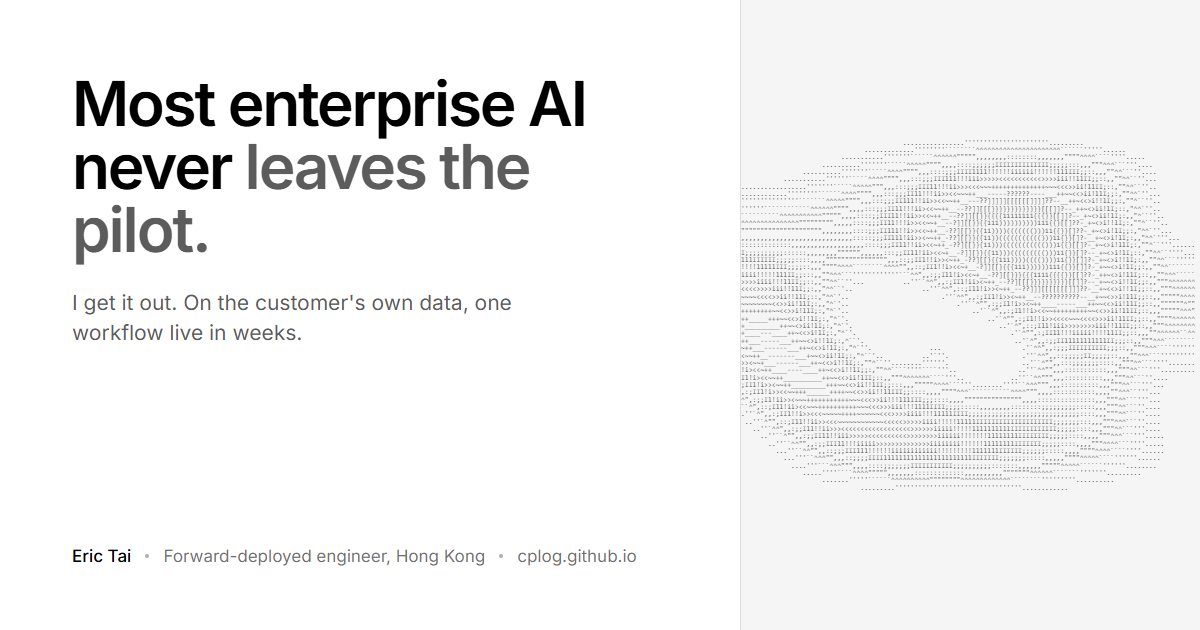
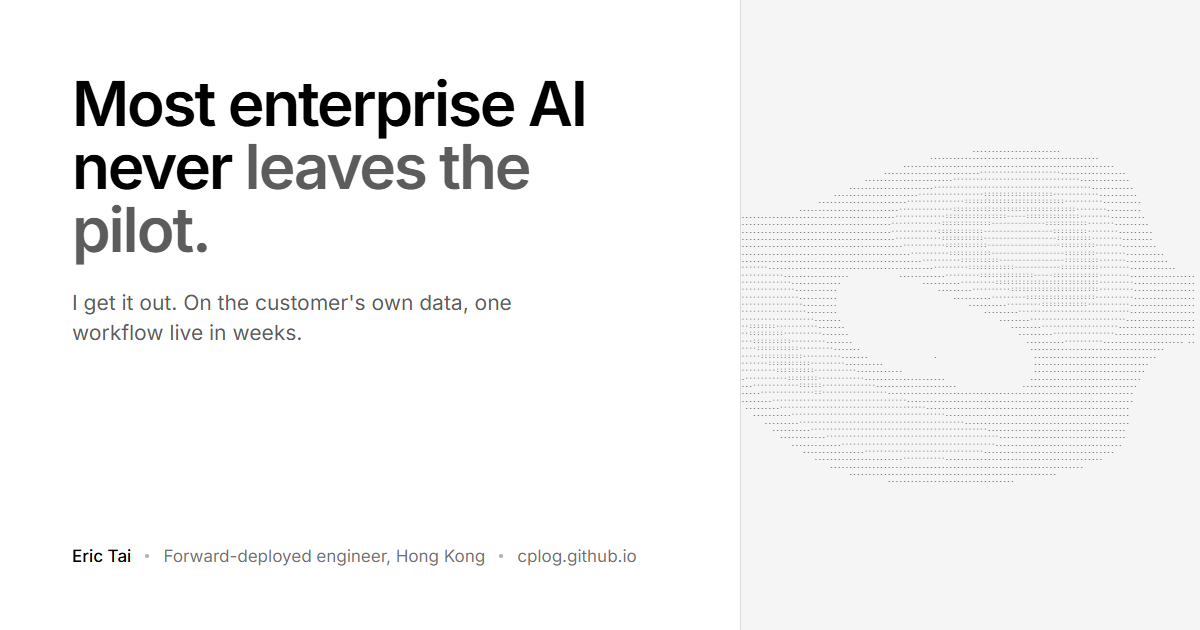
Draw the ASCII scenes instead of dithering them
The 70-step ramp is built for photographic dithering and its middle is all
letterforms. Sparse line art put through it came back at indices 20-45 --
literally `{Z$Z{` -- so the panel read as corrupted text rather than as a
drawing. Structural scenes now use an eight-step ramp with no letters in it.

The graph draws with line characters chosen from each segment's real visual
slope, so a run of them reads as one stroke. Weak edges thin to dots rather
than to a fainter glyph, which keeps every mark at one ink weight and is the
honest ASCII idiom for 'less certain'.

Node homes come from a jittered grid. Two draws of the sine hash turned out
correlated enough to put every node on one diagonal with dead corners around
it. Also gave the grid a clear band so nothing renders under the buttons.

Changed region(s): [[0.6167, 0.2111, 1.0, 0.7841]]

diff --git a/scenes.js b/scenes.js
@@ -1,5 +1,7 @@
 // Three scenes. Each one has a reason to exist rather than being an effect.
 
+import { RAMP_SOFT } from "./engine.js";
+
 const clamp = (v) => (v < 0 ? 0 : v > 1 ? 1 : v);
 
 /* 1 - FIELD ---------------------------------------------------------------
@@ -9,6 +11,7 @@ const clamp = (v) => (v < 0 ? 0 : v > 1 ? 1 : v);
 export const field = {
   id: "field",
   name: "Interference",
+  ramp: RAMP_SOFT,
   note: "Three sine layers over a warped domain. The warp is why it never quite repeats.",
   still: 3.1,
   field(nx, ny, t) {
@@ -25,7 +28,7 @@ export const field = {
     // that real black space survives between the bright bands.
     const rr = Math.sqrt(nx * nx + (ny * 2.4) * (ny * 2.4));
     const vig = clamp(1.18 - rr * 0.62);
-    return clamp((a * 0.30 + 0.20) * vig);
+    return clamp((a * 0.42 + 0.30) * vig);
   },
 };
 
@@ -34,7 +37,7 @@ export const field = {
    brightness falls with distance. It is the same claim the writing makes:
    the interesting part is which things are connected and how much you trust
    the edge. */
-const NODES = 17;
+const GX = 6, GY = 3, NODES = GX * GY;
 const seeded = (i) => {
   const s = Math.sin(i * 127.1) * 43758.5453;
   return s - Math.floor(s);
@@ -42,8 +45,9 @@ const seeded = (i) => {
 export const graph = {
   id: "graph",
   name: "Connectivity",
-  note: "Edges exist while two nodes are close, and fade with distance. Trust falls off the same way.",
+  note: "Edges exist while two nodes are close, and thin to dots as distance grows. Trust falls off the same way.",
   still: 6.0,
+  ramp: RAMP_SOFT,
   draw(ctx) {
     const { cols, rows, t } = ctx;
     const pts = [];
@@ -52,43 +56,41 @@ export const graph = {
       // Lissajous band and the field reads as one arc instead of a graph
       const fx = 0.13 + seeded(i) * 0.19, fy = 0.11 + seeded(i + 31) * 0.17;
       const px = seeded(i + 99) * 6.283, py = seeded(i + 57) * 6.283;
-      let x = (0.5 + 0.42 * Math.sin(t * fx + px)) * (cols - 1);
-      let y = (0.5 + 0.44 * Math.sin(t * fy + py)) * (rows - 1);
+      // Homes come from a jittered grid, not from the hash. Two draws of a
+      // sine hash are correlated enough that every node lands on one diagonal
+      // and the frame gets dead corners; a grid guarantees the coverage and
+      // the jitter removes the regularity.
+      const gx = i % GX, gy = (i / GX) | 0;
+      const hx = 0.07 + ((gx + 0.22 + seeded(i + 11) * 0.56) / GX) * 0.86;
+      const hy = 0.09 + ((gy + 0.22 + seeded(i + 71) * 0.56) / GY) * 0.82;
+      let x = (hx + 0.10 * Math.sin(t * fx + px)) * (cols - 1);
+      let y = (hy + 0.11 * Math.sin(t * fy + py)) * (rows - 1);
       // the pointer pushes nodes away, which is the page's one real interaction
       if (ctx.pointer) {
         const pxp = ctx.pointer.x * (cols - 1), pyp = ctx.pointer.y * (rows - 1);
-        const dx = x - pxp, dy = (y - pyp) / ctx.cellRatio / 1.75;
+        const dx = x - pxp, dy = (y - pyp) / ctx.cellRatio;
         const d = Math.hypot(dx, dy), R = cols * 0.16;
         if (d < R && d > 0.001) {
           const push = (1 - d / R) * cols * 0.075;
           x += (dx / d) * push;
-          y += (dy / d) * push * ctx.cellRatio * 1.75;
+          y += (dy / d) * push * ctx.cellRatio;
         }
       }
       pts.push([x, y]);
     }
-    const reach = cols * 0.17;
+    const reach = cols * 0.27;
     for (let i = 0; i < pts.length; i++) {
       for (let j = i + 1; j < pts.length; j++) {
         const dx = pts[i][0] - pts[j][0];
         // correct for cell aspect or "close" means something different vertically
-        const dy = (pts[i][1] - pts[j][1]) / ctx.cellRatio / 1.75;
+        const dy = (pts[i][1] - pts[j][1]) / ctx.cellRatio;
         const d = Math.hypot(dx, dy);
         if (d > reach) continue;
-        const strength = 1 - d / reach;
-        ctx.line(pts[i][0], pts[i][1], pts[j][0], pts[j][1], (k) => {
-          // brightest at the ends, so nodes read as anchors and edges as inference
-          const ends = Math.abs(k - 0.5) * 2;
-          return strength * (0.30 + ends * 0.34);
-        });
+        ctx.stroke(pts[i][0], pts[i][1], pts[j][0], pts[j][1], 1 - d / reach);
       }
     }
-    // nodes read as anchors: full weight, with a short shoulder either side
-    for (const [x, y] of pts) {
-      ctx.put(x, y, 1);
-      ctx.put(x + 1, y, 0.7); ctx.put(x - 1, y, 0.7);
-      ctx.put(x + 2, y, 0.34); ctx.put(x - 2, y, 0.34);
-    }
+    // nodes last, so an edge never overwrites the thing it connects
+    for (const [x, y] of pts) ctx.text(x, y, "o");
   },
 };
 
@@ -103,6 +105,7 @@ const PAIRS = [
 export const revision = {
   id: "revision",
   name: "Revision",
+  ramp: RAMP_SOFT,
   note: "A claim is set, struck, and reset. The superseded version stays legible.",
   still: 3.4,
   draw(ctx) {

diff --git a/engine.js b/engine.js
@@ -12,6 +12,13 @@
 
 export const RAMP = " .'`^\",:;Il!i><~+_-?][}{1)(|\/tfjrxnuvczXYUJCLQ0OZmwqpdbkhao*#MW&8%B@$";
 
+// The 70-step ramp above is built for photographic dithering: dense, and its
+// middle is all letterforms. Put sparse line art through it and indices 20-45
+// come back as `{Z$Z{` -- the image reads as corrupted text rather than as a
+// drawing. Anything structural uses this instead: eight steps, no letters, and
+// weight that rises monotonically without any glyph calling attention to itself.
+export const RAMP_SOFT = " .·:-=+*";
+
 export class AsciiStage {
   constructor(el, { cols = 150, fps = 30 } = {}) {
     this.el = el;
@@ -74,6 +81,35 @@ export class AsciiStage {
         const i = y * cols + x;
         if (v > grid[i]) grid[i] = v;
       },
+      /**
+       * A line drawn as line characters. The glyph follows the segment's real
+       * visual slope (cells are ~0.55 as wide as tall, so raw dy lies), which
+       * is what makes a run of them read as one stroke instead of as a column
+       * of unrelated punctuation.
+       *
+       * Weakness is expressed as gaps rather than as a fainter glyph. Dotting
+       * is the honest ASCII idiom for "less certain", and it keeps every mark
+       * on the page at one ink weight.
+       */
+      stroke(x0, y0, x1, y1, strength) {
+        const dxv = x1 - x0, dyv = (y1 - y0) / cellRatio;
+        const a = Math.abs(Math.atan2(dyv, dxv));
+        const g = a < 0.3927 || a > 2.7489 ? "-"
+                : a < 1.1781 ? (dyv * dxv < 0 ? "/" : "\\")
+                : a < 1.9635 ? "|"
+                : (dyv * dxv < 0 ? "/" : "\\");
+        const steps = Math.max(Math.abs(x1 - x0), Math.abs(y1 - y0)) | 0;
+        // 1 = solid, 0 = nothing; between them the stroke thins to a dotted rule
+        const every = strength > 0.55 ? 1 : strength > 0.34 ? 2 : strength > 0.16 ? 3 : 4;
+        for (let s = 1; s < steps; s++) {
+          if (s % every) continue;
+          const k = s / steps;
+          const cx = Math.round(x0 + (x1 - x0) * k), cy = Math.round(y0 + (y1 - y0) * k);
+          if (cx < 0 || cy < 0 || cx >= cols || cy >= rows) continue;
+          const i = cy * cols + cx;
+          if (!chars[i]) chars[i] = { c: g };
+        }
+      },
       line(x0, y0, x1, y1, v) {
         const steps = Math.max(Math.abs(x1 - x0), Math.abs(y1 - y0)) | 0;
         for (let s = 0; s <= steps; s++) {
@@ -94,7 +130,8 @@ export class AsciiStage {
     }
     if (scene.draw) scene.draw(ctx);
 
-    const n = RAMP.length - 1;
+    const ramp = scene.ramp || RAMP;
+    const n = ramp.length - 1;
     let out = "";
     for (let y = 0; y < rows; y++) {
       let line = "";
@@ -102,7 +139,7 @@ export class AsciiStage {
         const lit = chars[y * cols + x];
         if (lit) { line += lit.c; continue; }
         const v = grid[y * cols + x];
-        line += RAMP[Math.max(0, Math.min(n, Math.round((v > 1 ? 1 : v < 0 ? 0 : v) * n)))];
+        line += ramp[Math.max(0, Math.min(n, Math.round((v > 1 ? 1 : v < 0 ? 0 : v) * n)))];
       }
       out += line + "\n";
     }

diff --git a/index.html b/index.html
@@ -92,7 +92,7 @@
   /* the one expressive interruption, in ink */
   .ascii{position:relative;border:1px solid var(--border);border-radius:10px;overflow:hidden;
     background:var(--canvas);aspect-ratio:4/3;width:100%;min-width:0}
-  .ascii pre{position:absolute;inset:0;margin:0;overflow:hidden;
+  .ascii pre{position:absolute;inset:10px 10px 38px;margin:0;overflow:hidden;
     font-family:ui-monospace,SFMono-Regular,Menlo,monospace;
     font-size:clamp(5px,.6vw,8px);line-height:1.05;color:var(--ink);white-space:pre;opacity:.82}
   .ascii__ctl{position:absolute;left:8px;bottom:8px;display:flex;gap:4px}
